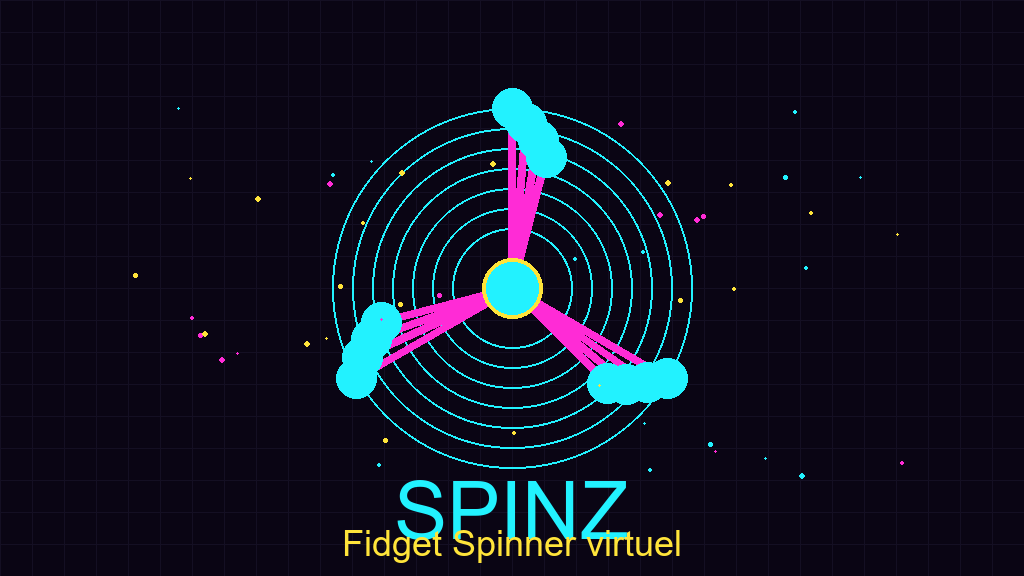
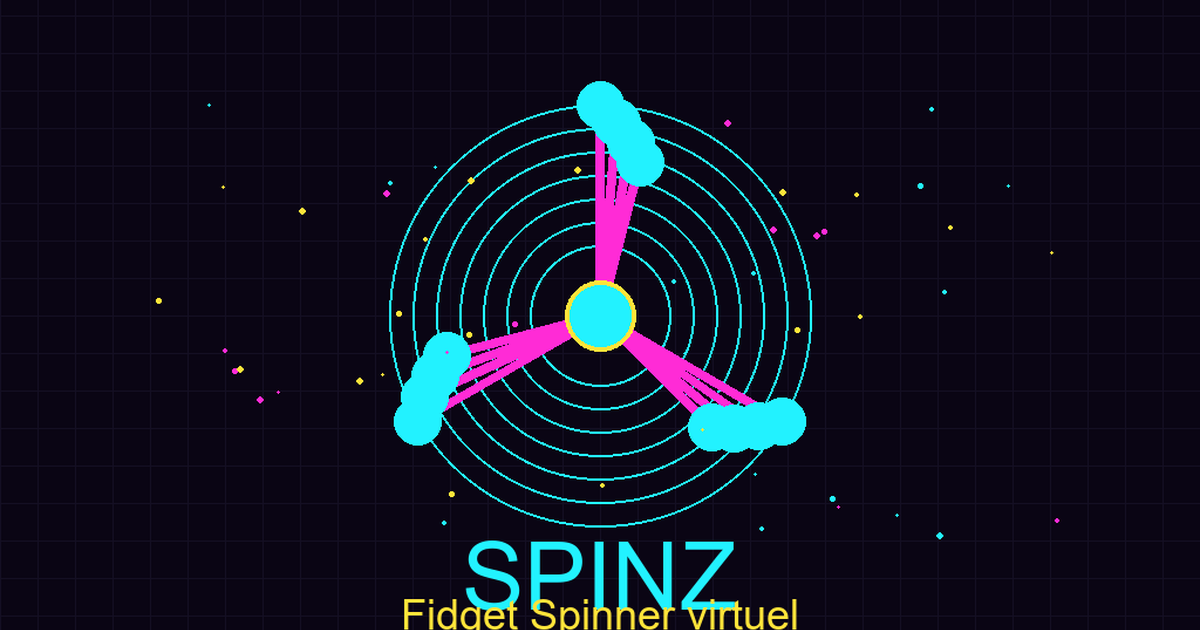
Open Graph : image 1200 x 630 et metadonnees completes

Changed region(s): [[0.3125, 0.125, 0.6875, 1.0], [0.1875, 0.5625, 0.2188, 0.5938]]

diff --git a/index.html b/index.html
@@ -10,13 +10,17 @@
     <meta property="og:type" content="website" />
     <meta property="og:title" content="Spinz — Fidget Spinner virtuel" />
     <meta property="og:description" content="Fais tourner des fidget spinners avec un geste du doigt. 5 designs uniques, physique réaliste, effets visuels." />
-    <meta property="og:image" content="https://games.hylst.fr/spinz/og-image.png" />
+    <meta property="og:image" content="https://games.hylst.fr/spinz/og-image.png?v=2" />
+    <meta property="og:image:type" content="image/png" />
+    <meta property="og:image:width" content="1200" />
+    <meta property="og:image:height" content="630" />
+    <meta property="og:image:alt" content="Spinz" />
     <meta property="og:url" content="https://games.hylst.fr/spinz/" />
     <meta property="og:site_name" content="Hylst.Games" />
     <meta name="twitter:card" content="summary_large_image" />
     <meta name="twitter:title" content="Spinz — Fidget Spinner virtuel" />
     <meta name="twitter:description" content="Fais tourner des fidget spinners avec un geste du doigt. 5 designs uniques, physique réaliste." />
-    <meta name="twitter:image" content="https://games.hylst.fr/spinz/og-image.png" />
+    <meta name="twitter:image" content="https://games.hylst.fr/spinz/og-image.png?v=2" />
     <meta name="robots" content="index, follow" />
     <link rel="canonical" href="https://games.hylst.fr/spinz/" />
     <link rel="icon" type="image/webp" href="favicon.webp" />
